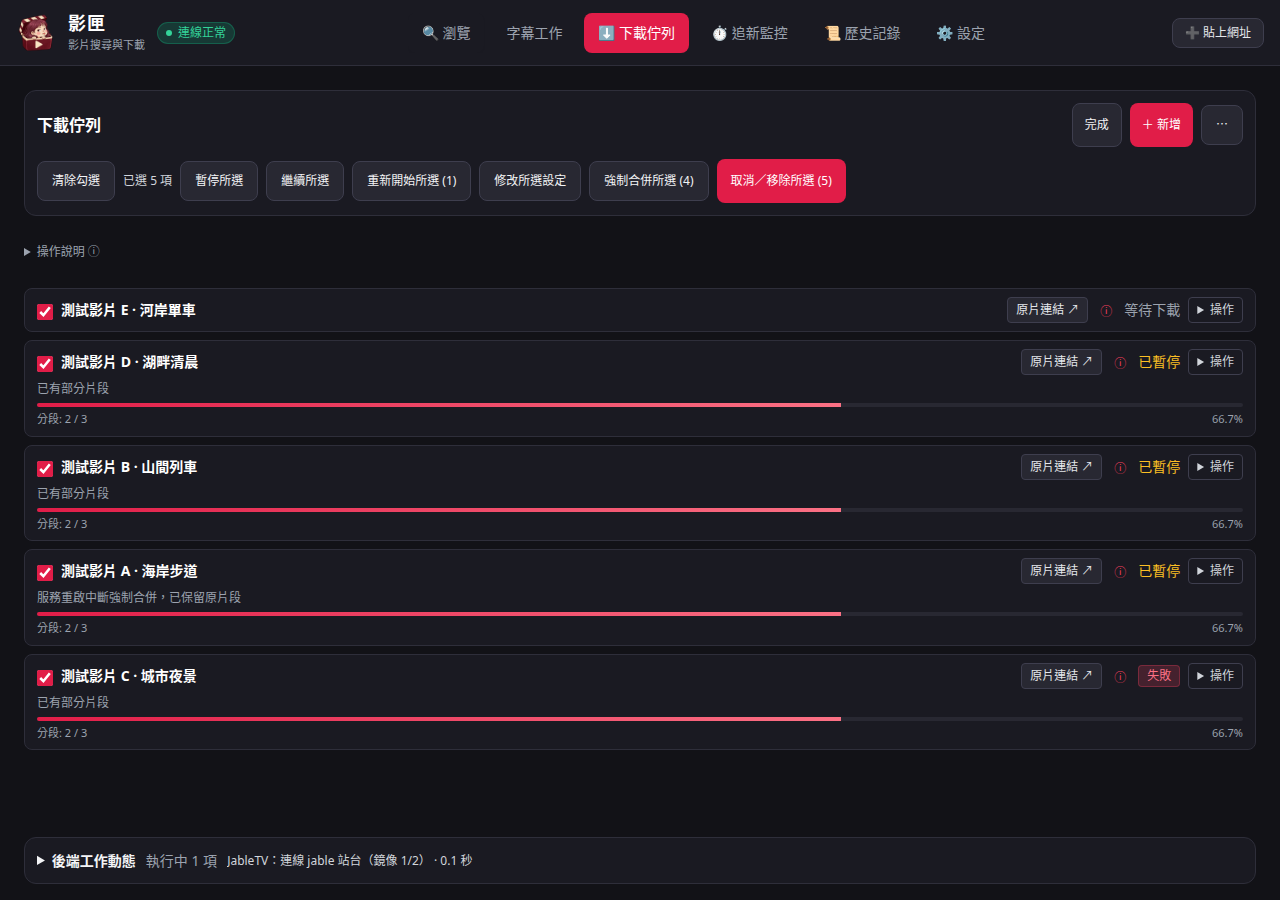
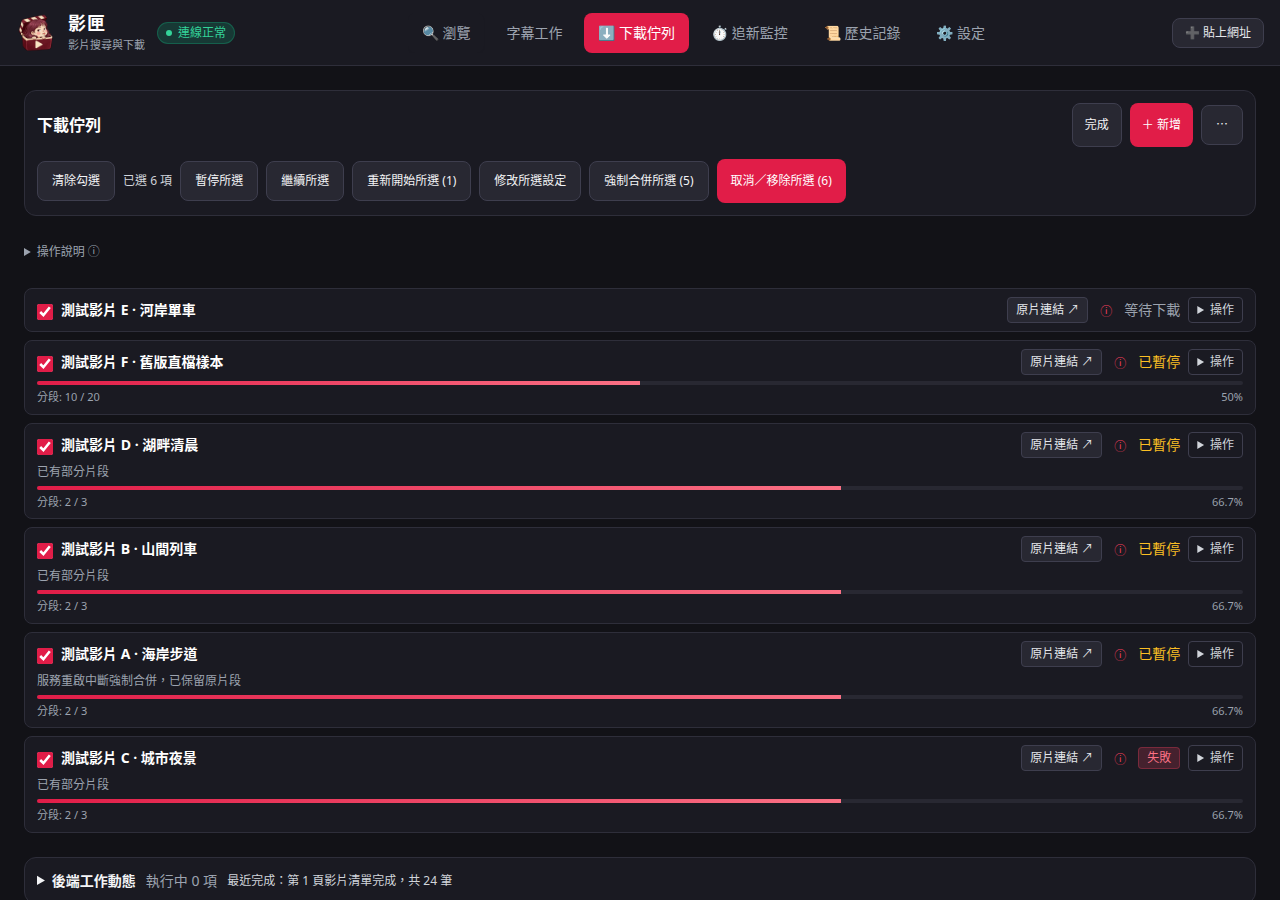
fix(download): 找不到可合併片段時保留暫停狀態

Changed region(s): [[0.0312, 0.3733, 0.9688, 0.9956]]

diff --git a/tests/test_daemon_downloads.py b/tests/test_daemon_downloads.py
@@ -1670,7 +1670,8 @@ def test_concurrent_force_merges_keep_both_exports_for_same_name(manager, monkey
 
 
 
-def test_force_merge_stays_unavailable_for_byte_download_after_restart(manager, monkeypatch, tmp_path):
+@pytest.mark.parametrize("legacy", [False, True])
+def test_force_merge_handles_byte_download_after_restart(manager, monkeypatch, tmp_path, legacy):
     import json
     import threading
 
@@ -1699,7 +1700,18 @@ def test_force_merge_stays_unavailable_for_byte_download_after_restart(manager, 
     assert 'progress_unit' not in record
     assert record['files']['progress_unit'] == 'bytes'
 
+    if legacy:
+        del record['files']['progress_unit']
+        manager._state_path.write_text(json.dumps([record]))
     restored = tm.TaskManager(state_path=manager._state_path)
-    assert not restored.list_tasks()[0]['can_force_merge']
-    assert restored.force_merge_tasks([task.task_id])['skipped'] == [task.task_id]
+    assert restored.list_tasks()[0]['can_force_merge'] is legacy
+    result = restored.force_merge_tasks([task.task_id])
+    if legacy:
+        assert result['accepted'] == [task.task_id]
+        restored._run_task_with_retries(restored.get_task(task.task_id))
+        assert '請先續傳' in restored.list_tasks()[0]['phase']
+        assert (Path(task.files.workdir) / 'fixture.mp4.part').read_bytes() == b'direct video bytes'
+        assert not (Path(task.dest) / '不完整影片').exists()
+    else:
+        assert result['skipped'] == [task.task_id]
     assert restored.list_tasks()[0]['status'] == 'paused'

diff --git a/src/uav_downloader/daemon/task_manager.py b/src/uav_downloader/daemon/task_manager.py
@@ -878,8 +878,10 @@ class TaskManager:
                     destination, task.name, task.cancelled_event, task.paused_event, task.set_phase)
             if filename:
                 task.set_phase(f'已儲存不完整影片：不完整影片/{filename}。可繼續下載')
-            else:
+            elif task.paused_event.is_set() or task.cancelled_event.is_set():
                 task.set_phase('強制合併已停止，下載片段已保留')
+            else:
+                task.set_phase('找不到已下載的影片片段，請先續傳')
             self._finish_task(task, 'paused')
         except Exception as exc:
             task.error = safe_media_message(exc)

diff --git a/src/uav_downloader/daemon/download_files.py b/src/uav_downloader/daemon/download_files.py
@@ -129,7 +129,7 @@ class DownloadFiles:
             if segments:
                 groups.append(segments)
         if not groups:
-            raise ValueError('找不到已下載的影片片段，請先續傳')
+            return None
         if len(groups) != 1:
             raise ValueError('找到多份片段目錄，無法確認哪些片段屬於同一份影片')
 
